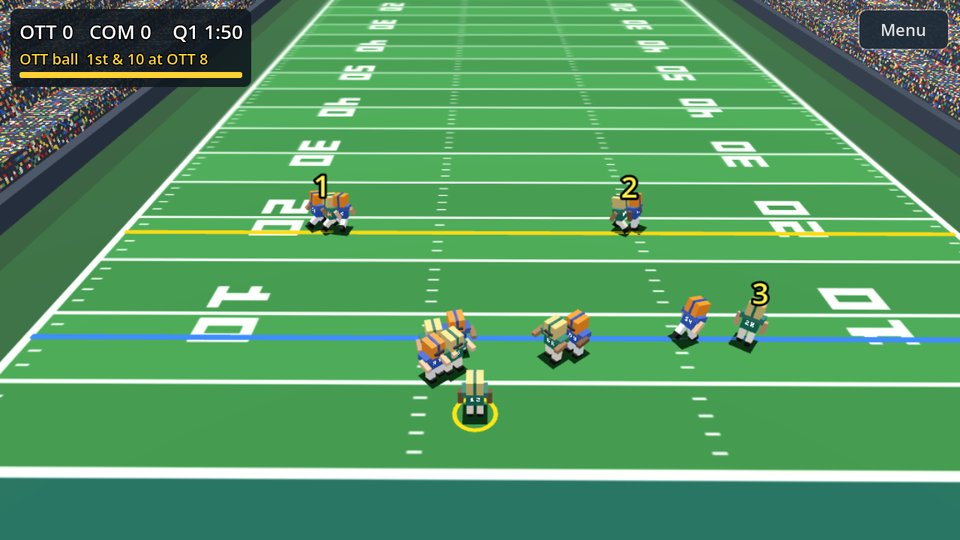
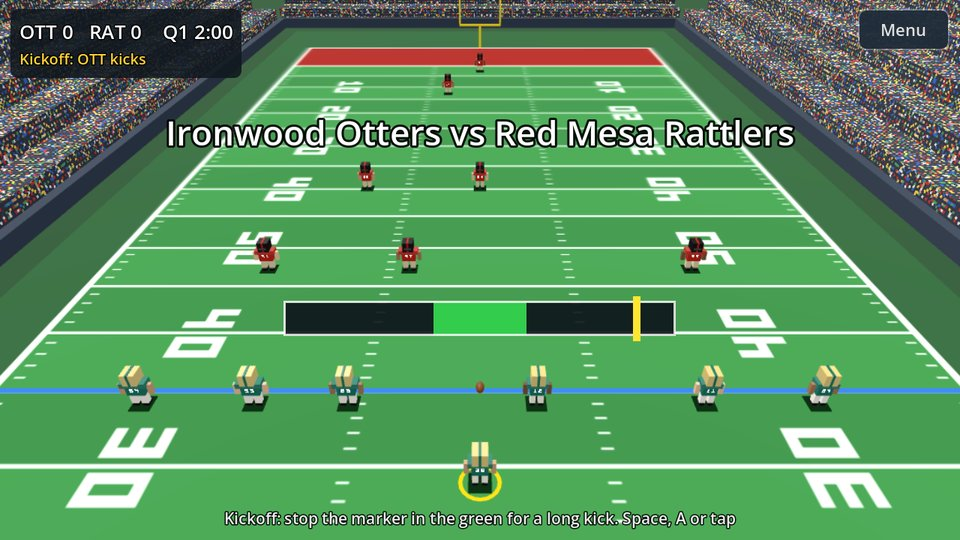
Tiny Titans Football card: v0.3.0 picture, description and alt text (G2.7)
Claude-Session: https://claude.ai/code/session_0117TTYCKGEbub4RTHeF3yuU

diff --git a/index.html b/index.html
@@ -68,10 +68,10 @@ footer{margin-top:40px;color:var(--soft);font-size:14px;text-align:center}
 </article>
 
 <article class="card" data-repo="tiny-titans-football">
-<a class="shot" href="tiny-titans-football/"><img src="images/tiny-titans-football.jpg" alt="Tiny Titans Football: a 7 on 7 pass play with numbered receivers on a green field" width="960" height="540" loading="lazy"></a>
+<a class="shot" href="tiny-titans-football/"><img src="images/tiny-titans-football.jpg" alt="Tiny Titans Football: a 7 on 7 kickoff with the kick meter and both teams lined up" width="960" height="540" loading="lazy"></a>
 <div class="body">
 <div class="top"><h2><a href="tiny-titans-football/">Tiny Titans Football</a></h2><span class="tag">Arcade 7 on 7 and 11 on 11 football</span></div>
-<p class="desc">Call a play, then run it. Play 7 on 7 or 11 on 11. Throw to your receivers, run the option and take kicks back for a score. Plays with touch, a keyboard or an Xbox controller.</p>
+<p class="desc">Call a play, then run it. Play 7 on 7 or 11 on 11, one game or a full season. Throw to your receivers, run the option and hit the burst to break away. Plays with touch, a keyboard or an Xbox controller.</p>
 <p class="meta">Browser and Android<span class="ver"></span></p>
 <div class="actions"><a class="btn" href="tiny-titans-football/">Open game page</a><a class="src" href="https://github.com/bclark10121-cloud/tiny-titans-football">Source on GitHub</a></div>
 </div>
